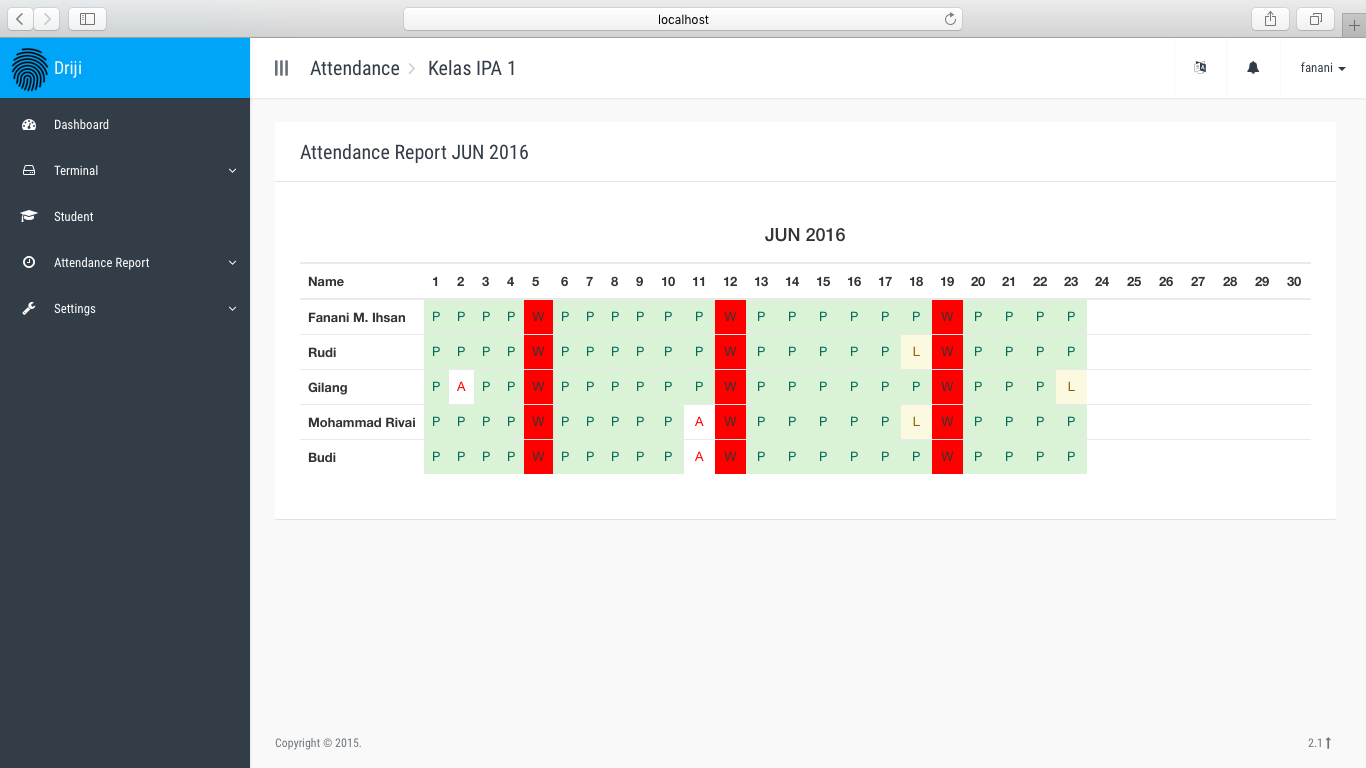
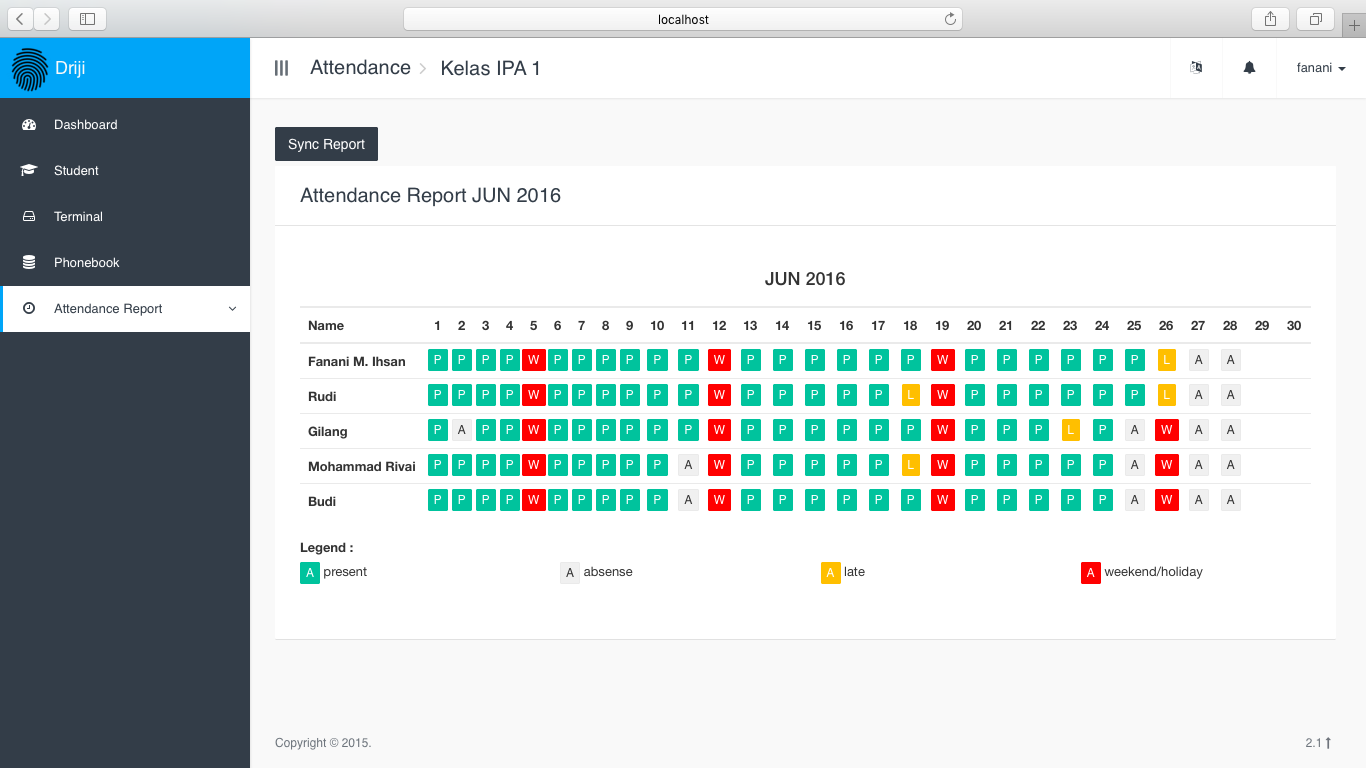
update attendance css

diff --git a/driji/templates/attendance.html b/driji/templates/attendance.html
@@ -52,7 +52,9 @@
                   {% with user_id=user.id date=d|date:"Ymd" %}
                     {% with data=summary|get_value:user_id %}
                       {% with status=data|get_value:date %}
-                        <td class="attendance_report center" data-status="{{ status|default:""|upper }}">{{ status|default:""|upper }}</td>
+                        <td class="attendance_report center" data-status="{{ status|default:""|upper }}">
+                          <button class="btn btn-xs">{{ status|default:""|upper }}</button>
+                        </td>
                       {% endwith %}
                     {% endwith %}
                   {% endwith  %}
@@ -69,7 +71,7 @@
               <button class="btn btn-xs btn-success">A</button> {% trans 'present' %}
             </div>
             <div class="col-xs-3">
-              <button class="btn btn-xs">A</button> {% trans 'absense' %}
+              <button class="btn btn-xs btn-default">A</button> {% trans 'absense' %}
             </div>
             <div class="col-xs-3">
               <button class="btn btn-xs btn-warning">A</button> {% trans 'late' %}
@@ -94,18 +96,24 @@
       var status = $(this).data('status');
       switch (status) {
         case 'P':
-          $(this).addClass('success');
+          $(this).css('padding', 0);
+          $(this).children('button').addClass('btn-success');
           break;
         case 'L':
-          $(this).addClass('warning');
+          $(this).css('padding', 0);
+          $(this).children('button').addClass('btn-warning');
           break;
         case 'A':
-          $(this).addClass('error');
+          $(this).css('padding', 0);
+          $(this).children('button').addClass('btn-default');
           break;
         case 'W':
-          $(this).css('background', 'red');
+          $(this).css('padding', 0);
+          $(this).children('button').addClass('btn-danger');
           break;
         default:
+          $(this).css('padding', 0);
+          $(this).children('button').remove();
           break
       }
     });
